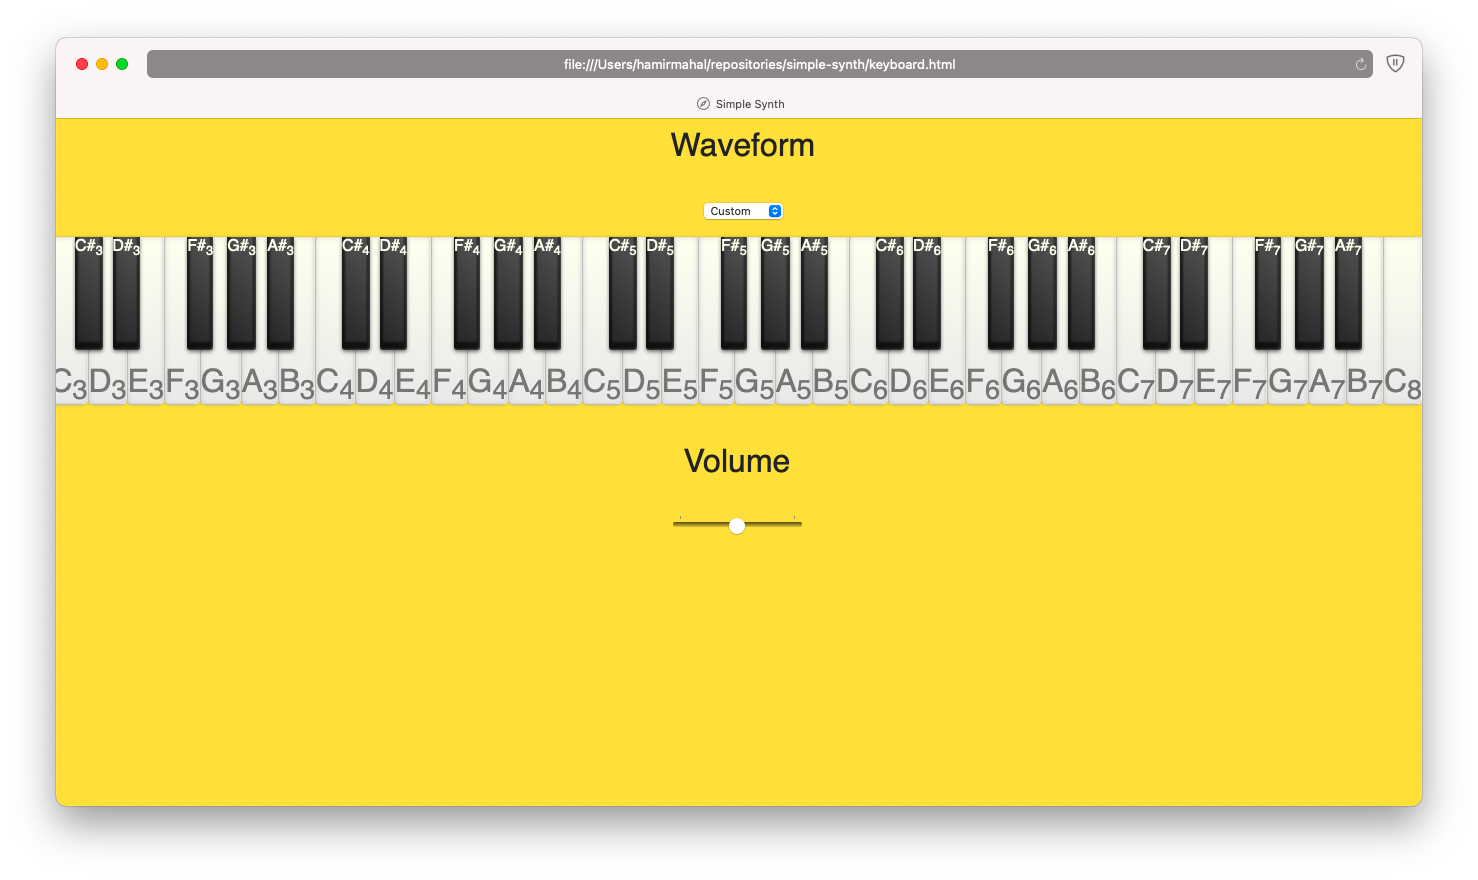
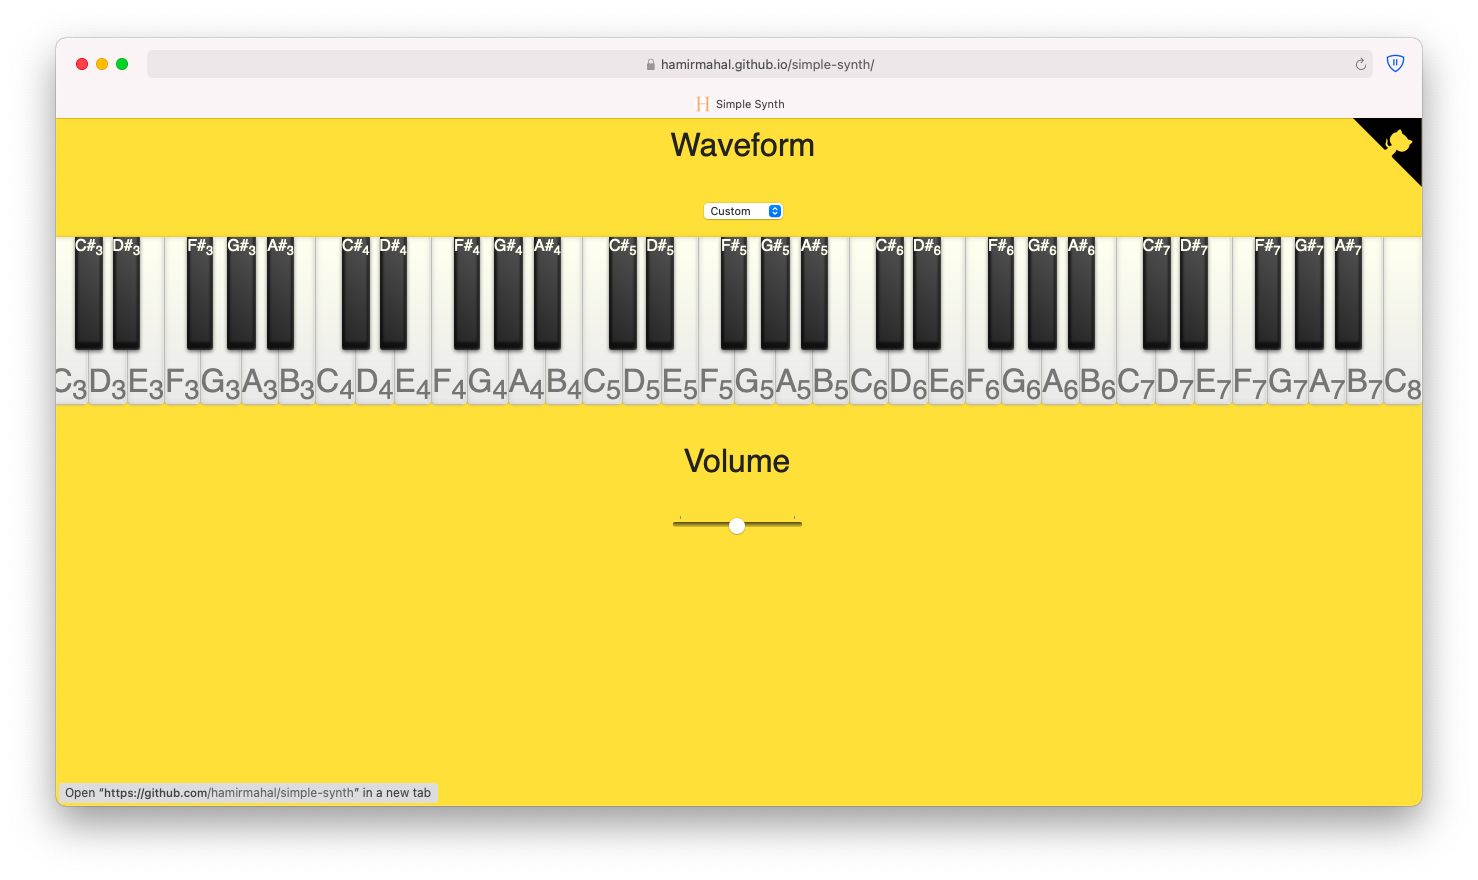
add new screenshots and link to synth in README.md

Changed region(s): [[0.0934, 0.0307, 0.9648, 0.092], [0.0311, 0.8898, 0.3112, 0.9205], [0.9026, 0.1227, 0.9648, 0.2148]]

diff --git a/README.md b/README.md
@@ -2,6 +2,8 @@ This is a simple synthesizer I built that uses the steps in an [MDN tutorial on 
 
 It also heavily uses styling from a very aesthetic [CSS Piano](https://codepen.io/zastrow/pen/oDBki).
 
+You can view a live demonstration of this repository at [https://hamirmahal.github.io/simple-synth/](https://hamirmahal.github.io/simple-synth/).
+
 This is what the keyboard looks like with a day theme active.
 
 ![simple synth day theme](img/simple-synth-day-theme.png)
